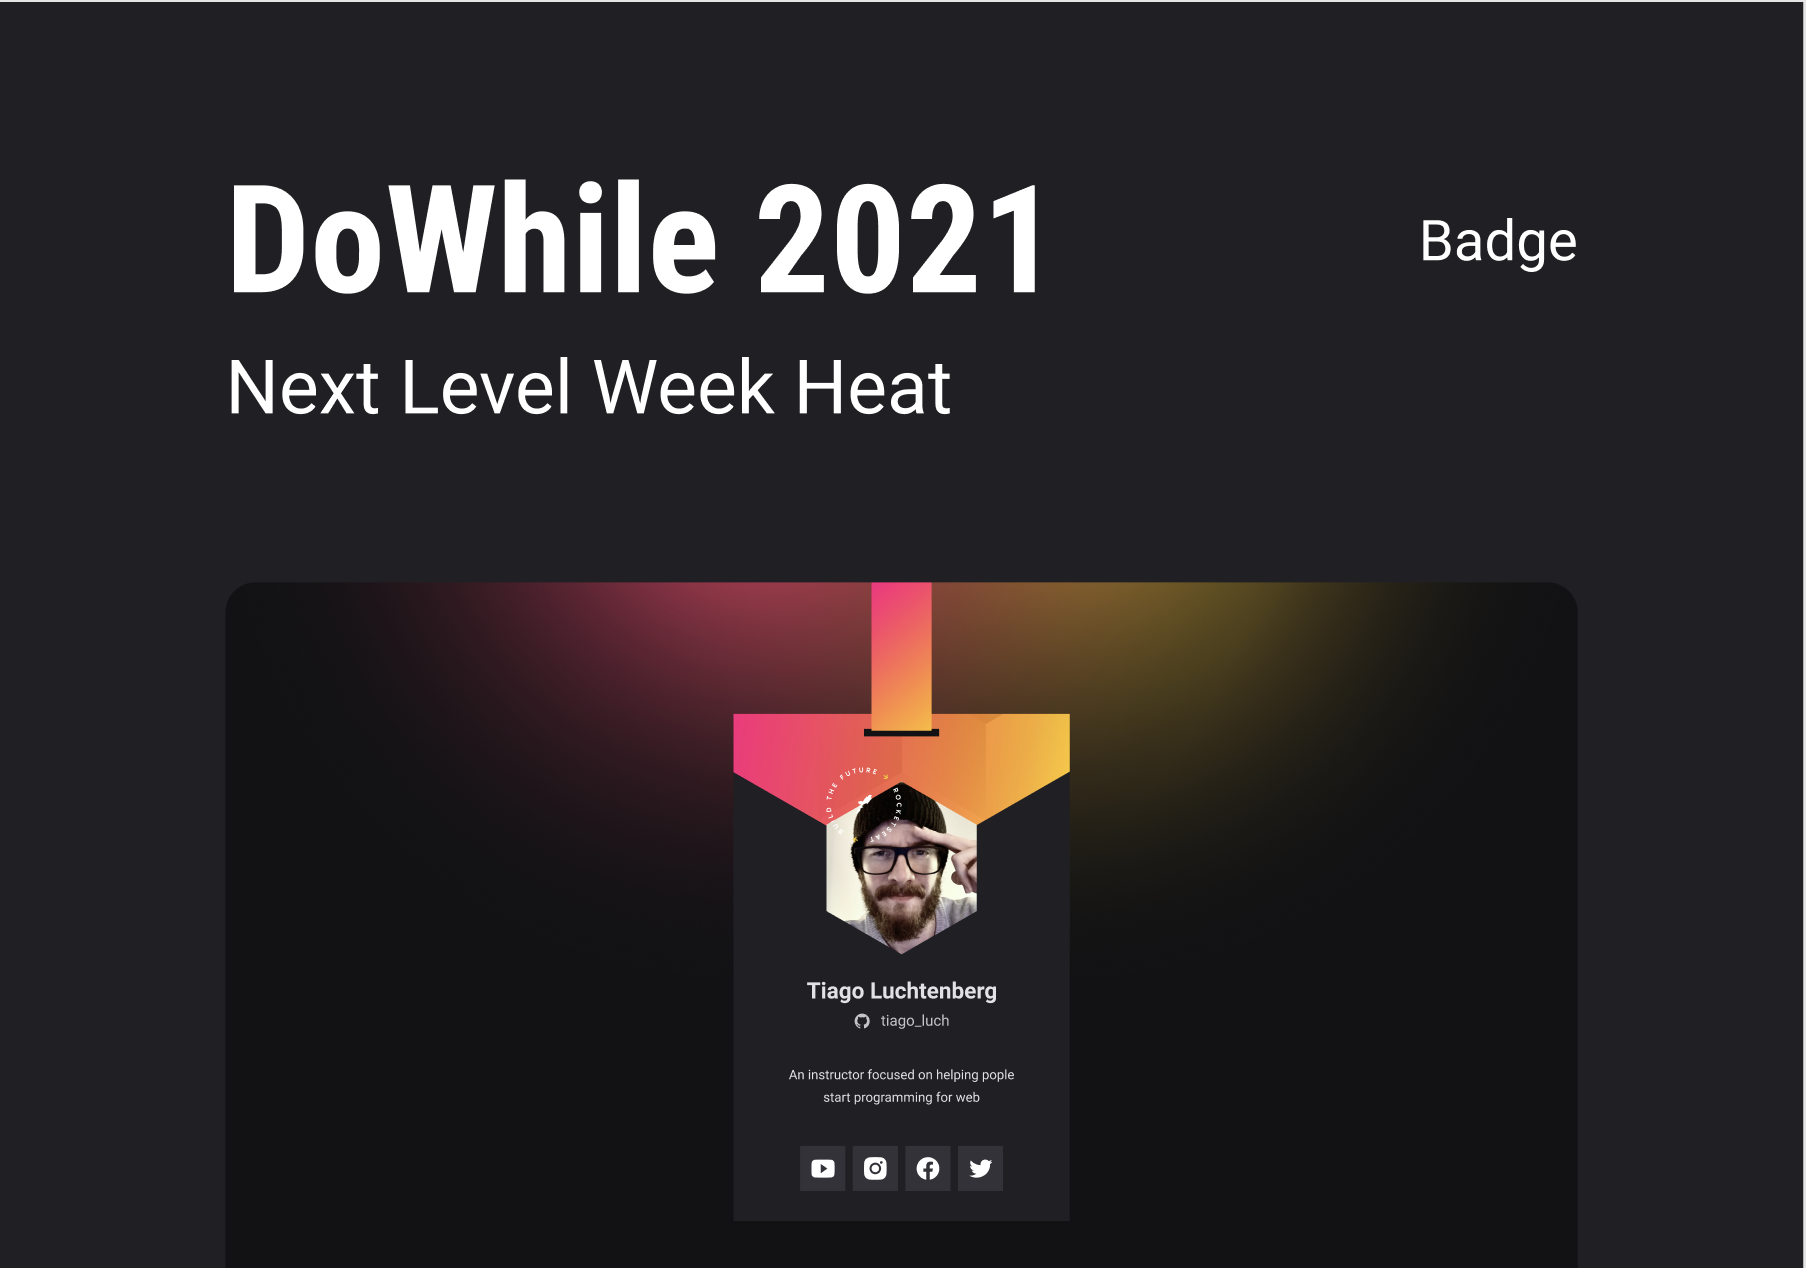
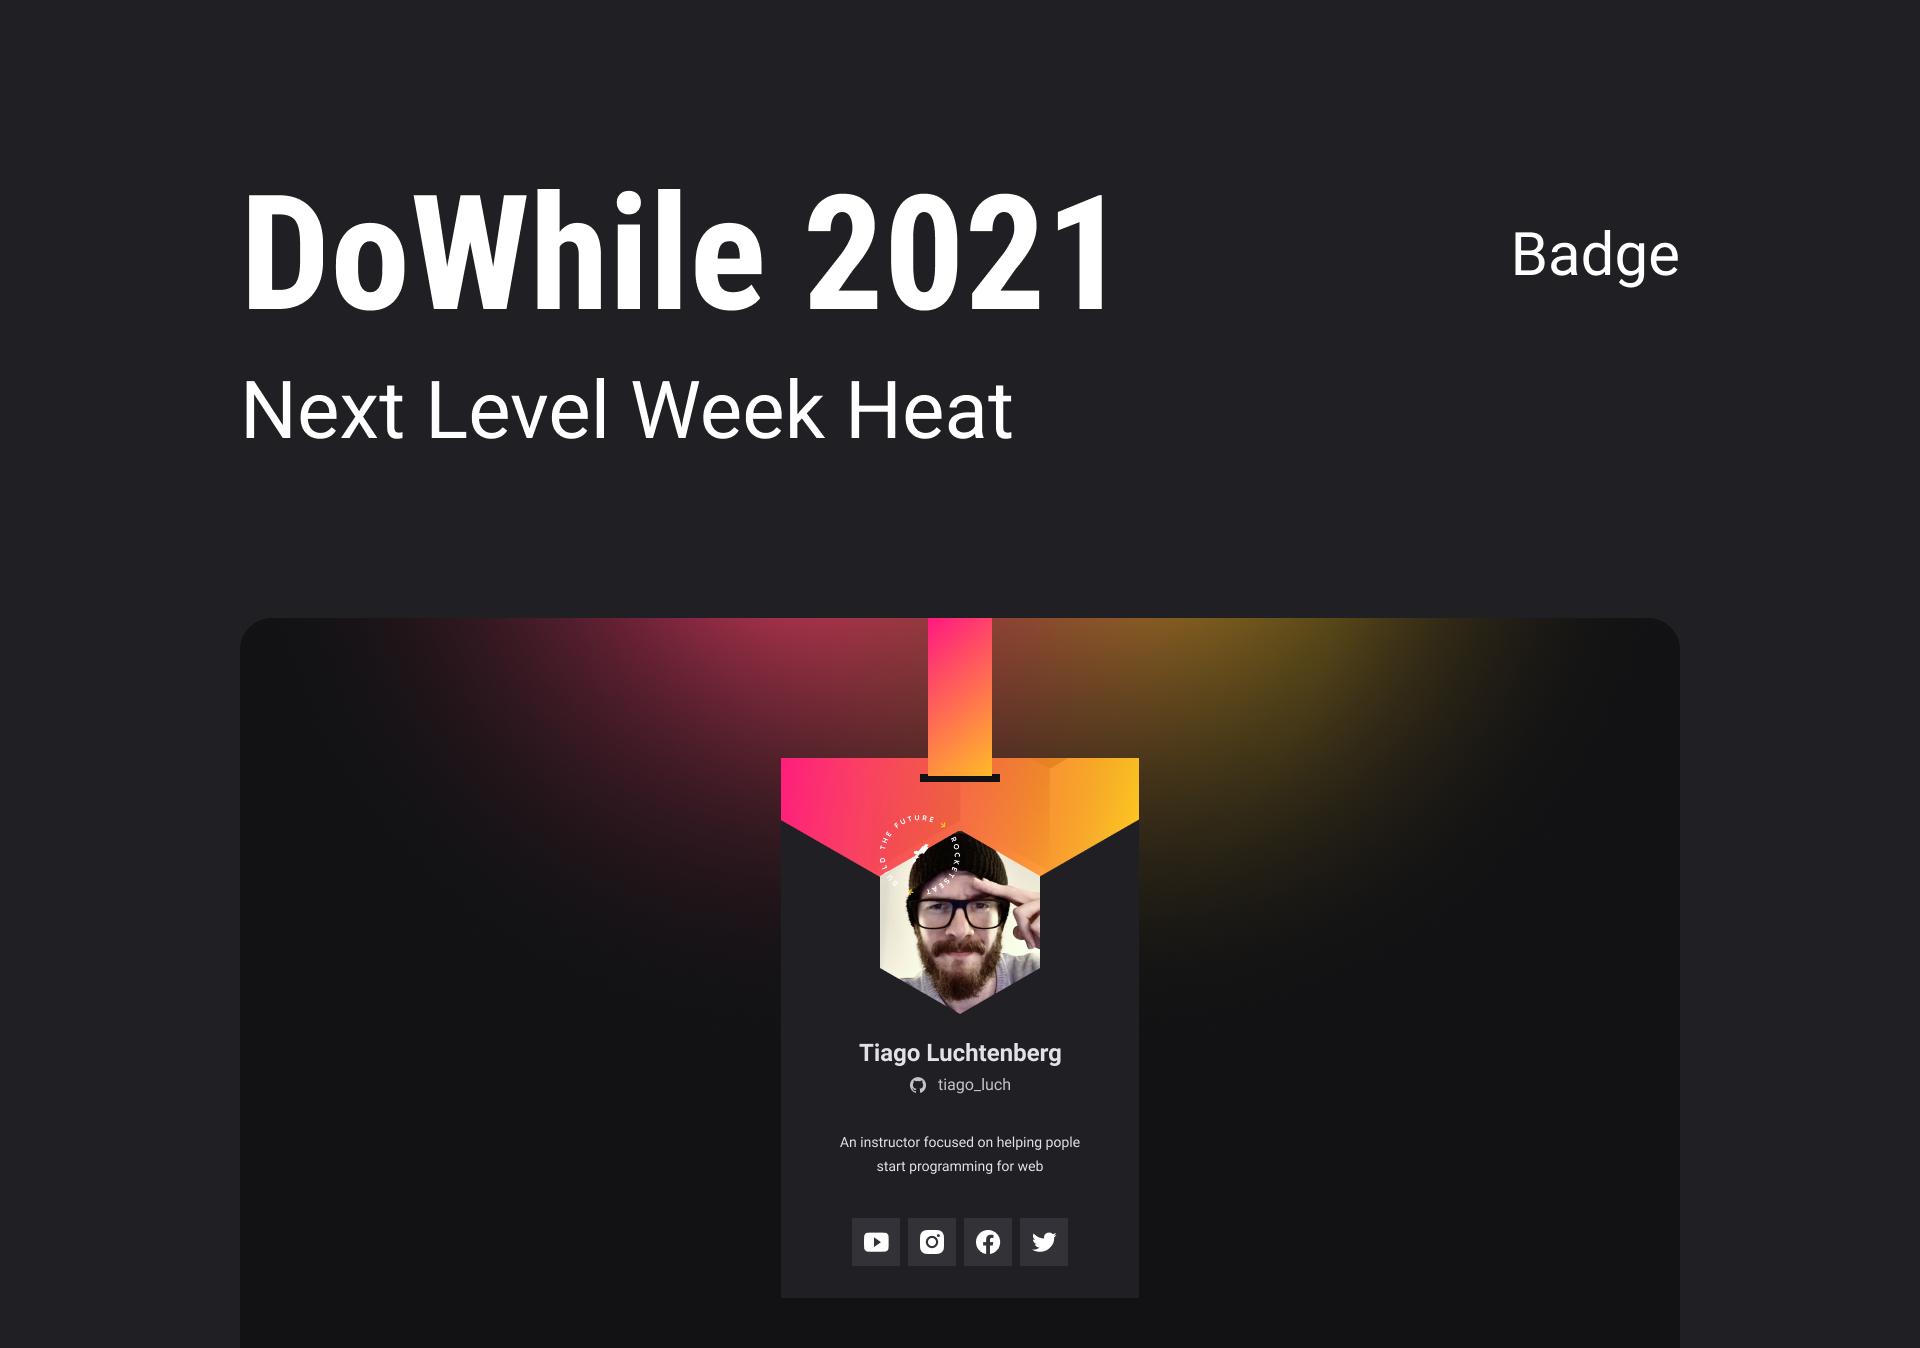
aula 04

diff --git a/index.html b/index.html
@@ -4,32 +4,65 @@
   <head>
     <title>Mayk Brito - DoWhile 2021</title>
 
-    <style>
-      /* Cascating Stylesheet */
-      html,
-      body {
-        height: 100%;
-      }
+    <link rel="stylesheet" href="style.css" />
 
-      body {
-        display: grid;
-        place-items: center;
+    <link rel="preconnect" href="https://fonts.googleapis.com" />
+    <link rel="preconnect" href="https://fonts.gstatic.com" crossorigin />
 
-        background: lightblue;
-      }
-
-      h1 {
-        font-size: 1.5rem;
-      }
-
-      a {
-        color: black;
-        text-decoration: none;
-      }
-    </style>
+    <link
+      href="https://fonts.googleapis.com/css2?family=Roboto:wght@400;700&display=swap"
+      rel="stylesheet"
+    />
   </head>
   <body>
-    <h1>Mayk Brito</h1>
-    <a href="https://instagram.com/maykbrito">@maykbrito</a>
+    <main>
+      <div class="container">
+        <div class="avatar">
+          <span>
+            <img src="images/build.svg" alt="Selo Rocketseat" />
+          </span>
+          <img
+            src="https://lorempixel.com/185/185/people/"
+            alt="Foto pessoal"
+            id="UserImage"
+          />
+        </div>
+
+        <h1 id="userName">Mayk Brito</h1>
+        <a id="userLink" href="https://github.com/maykbrito" target="_blank">
+          <img src="images/github.svg" alt="ícone github" />
+          <span id="userLogin">maykbrito</span></a
+        >
+
+        <p id="userBio">
+          An instructor focused on helping pople start programming for web
+        </p>
+
+        <ul id="socialLinks">
+          <li class="youtube">
+            <a href="https://youtube.com/maykbrito" target="_blank">
+              <img src="images/youtube.svg" alt="ícone youtube" />
+            </a>
+          </li>
+          <li class="facebook">
+            <a href="https://facebook.com/maykbrito" target="_blank">
+              <img src="images/facebook.svg" alt="ícone facebook" />
+            </a>
+          </li>
+          <li class="instagram">
+            <a href="https://instagram.com/maykbrito" target="_blank">
+              <img src="images/instagram.svg" alt="ícone instagram" />
+            </a>
+          </li>
+          <li class="twitter">
+            <a href="https://twitter.com/maykbrito" target="_blank">
+              <img src="images/twitter.svg" alt="ícone twitter" />
+            </a>
+          </li>
+        </ul>
+      </div>
+    </main>
+
+    <script src="main.js"></script>
   </body>
 </html>

diff --git a/style.css b/style.css
@@ -1,0 +1,89 @@
+* {
+  margin: 0;
+}
+
+html,
+body {
+  --black: hsl(240, 6%, 13%);
+  --grey: hsl(240, 9%, 89%);
+
+  height: 100%;
+  font-family: 'Roboto', sans-serif;
+  -webkit-font-smoothing: antialiased;
+}
+
+body {
+  display: grid;
+  place-items: center;
+}
+
+main {
+  background: url(images/background.svg);
+  width: 375px;
+  height: 812px;
+}
+
+.container {
+  max-width: 250px;
+  margin-left: auto;
+  margin-right: auto;
+  text-align: center;
+
+  color: var(--grey);
+}
+
+.avatar {
+  width: 10rem;
+  margin: 11.5rem auto 0;
+
+  position: relative;
+}
+
+.avatar span {
+  position: absolute;
+  top: -15px;
+  z-index: 1;
+}
+
+.avatar > img {
+  width: 10rem;
+  height: 11.5rem;
+  object-fit: cover;
+
+  clip-path: polygon(50% 0, 100% 25%, 100% 75%, 50% 100%, 0 75%, 0 25%);
+}
+
+h1 {
+  font-size: 1.5rem;
+
+  margin-top: 1.5rem;
+}
+
+a {
+  color: var(--grey);
+  text-decoration: none;
+
+  margin-top: 0.25rem;
+
+  display: flex;
+  gap: 0.75rem;
+
+  justify-content: center;
+  align-items: center;
+}
+
+p {
+  margin-top: 2rem;
+}
+
+ul {
+  margin-top: 4rem;
+
+  list-style: none;
+  padding: 0;
+
+  display: flex;
+  gap: 0.5rem;
+
+  justify-content: center;
+}

diff --git a/main.js b/main.js
@@ -1,0 +1,33 @@
+const LinksSocialMedia = {
+  github: 'jakeliny2',
+  youtube: 'jakelinygracielly',
+  facebook: 'maykbrito',
+  instagram: 'jakeliny.gracielly',
+  twitter: 'jakelinytec'
+}
+
+function changeSocialMediaLinks() {
+  for (let li of socialLinks.children) {
+    const social = li.getAttribute('class')
+
+    li.children[0].href = `https://${social}.com/${LinksSocialMedia[social]}`
+  }
+}
+
+changeSocialMediaLinks()
+
+function getGitHubProfileInfos() {
+  const url = `https://api.github.com/users/${LinksSocialMedia.github}`
+
+  fetch(url)
+    .then(response => response.json())
+    .then(data => {
+      userName.textContent = data.name
+      userBio.textContent = data.bio
+      userLink.href = data.html_url
+      UserImage.src = data.avatar_url
+      userLogin.textContent = data.login
+    })
+}
+
+getGitHubProfileInfos()
